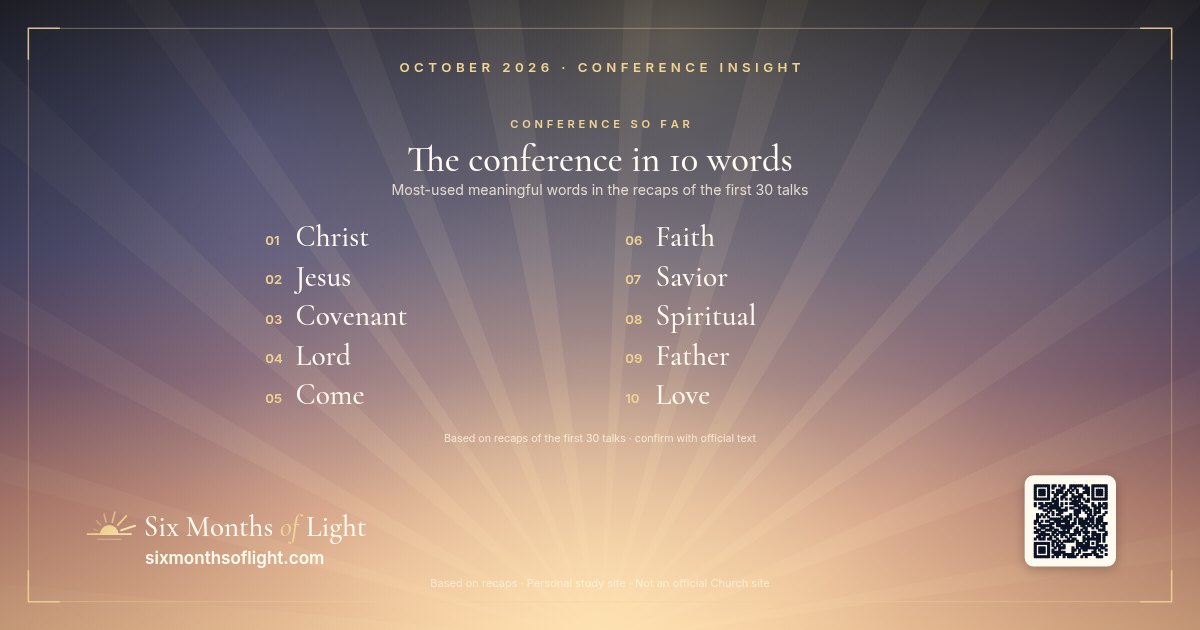
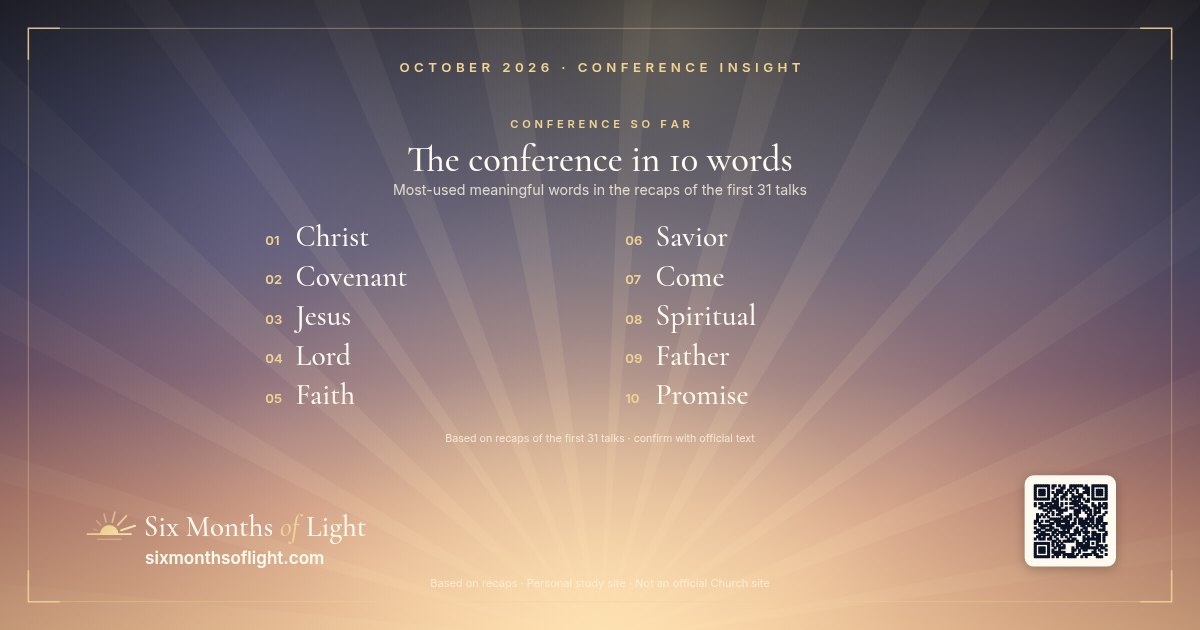
Add Sunday afternoon: Elder David A. Bednar "Sealed by the Holy Spirit of Promise"
From Church News recap; session remains pending for more talks.

diff --git a/assets/data.js b/assets/data.js
@@ -778,6 +778,30 @@ window.CONF = {
    "big_idea": "Live the law of tithing and the Lord opens the windows of heaven — blessings both temporal and spiritual.",
    "video_embed": null,
    "full_text_permitted": false
+  },
+  {
+   "id": "sun-pm-4-bednar",
+   "session": "sun-pm",
+   "order": 4,
+   "speaker": "Elder David A. Bednar",
+   "calling": "Quorum of the Twelve Apostles",
+   "title": "Sealed by the Holy Spirit of Promise",
+   "recap_url": "https://www.thechurchnews.com/general-conference/2026/10/04/elder-david-bednar-october-2026-general-conference-sealed-holy-spirit-promise/",
+   "official_url": null,
+   "summary": "Speaking about ordinances and covenants, with a focus on the sealing ordinance. A covenant is a solemn promise and enduring commitment between God and His children, received through sacred ordinances — holy acts performed by priesthood authority with spiritual purpose and eternal significance. Understanding ordinances helps us understand our covenants. Covenants and ordinances are spiritual credentials, and faithfulness keeps them valid to receive the promised blessings. The Holy Ghost is the Holy Spirit of Promise, who ratifies righteous acts as acceptable to God; during mortality that seal is conditional and can be forfeited through unrighteousness. The temple sealing of a man and a woman is a crowning covenant and ordinance; a spouse who violates covenants and does not repent loses the ratifying seal, while a faithful spouse who honors covenants and presses forward in faith remains worthy to receive the promised blessings.",
+   "scriptures": [
+    "The Holy Ghost as the “Holy Spirit of Promise” (no verse cited in recaps)"
+   ],
+   "quotes": [
+    "For disciples of Jesus Christ, receiving priesthood ordinances and entering into sacred covenants are essential steps in the quest of a lifetime to align our hearts, minds and lives with God’s will.",
+    "The covenants and ordinances of the Savior’s restored gospel are spiritual credentials that can open wide the heavenly windows of opportunity to receive in our lives divine purpose, direction and strength.",
+    "Ultimately, all gospel ordinances and covenants must be sealed by the Holy Spirit of Promise."
+   ],
+   "invitation": "Honor your covenants and press forward in faith so your ordinances can be sealed by the Holy Spirit of Promise.",
+   "ponder": "Am I keeping my covenant “credentials” valid — and what would help me honor my temple covenants more faithfully?",
+   "big_idea": "Ordinances and covenants are spiritual credentials — kept faithfully, they are sealed by the Holy Spirit of Promise.",
+   "video_embed": null,
+   "full_text_permitted": false
   }
  ],
  "challenge": {

diff --git a/q/sun-pm-4-bednar-2.html b/q/sun-pm-4-bednar-2.html
@@ -1,0 +1,14 @@
+<!doctype html>
+<html lang="en"><head><meta charset="utf-8"><meta name="viewport" content="width=device-width,initial-scale=1">
+<title>“The covenants and ordinances of the Savior’s restored gospel are spiritual credentials that can open…” — Elder David A. Bednar · Six Months of Light</title>
+<meta name="description" content="From “Sealed by the Holy Spirit of Promise” (October 2026 General Conference, as quoted in recaps). Read the recap and make your own quote card.">
+<meta property="og:type" content="article"><meta property="og:site_name" content="Six Months of Light">
+<meta property="og:title" content="“The covenants and ordinances of the Savior’s restored gospel are spiritual credentials that can open…” — Elder David A. Bednar"><meta property="og:description" content="From “Sealed by the Holy Spirit of Promise” (October 2026 General Conference, as quoted in recaps). Read the recap and make your own quote card.">
+<meta property="og:url" content="https://sixmonthsoflight.com/q/sun-pm-4-bednar-2.html"><meta property="og:image" content="https://sixmonthsoflight.com/assets/og/q/sun-pm-4-bednar-2.jpg">
+<meta property="og:image:width" content="1200"><meta property="og:image:height" content="630"><meta property="og:image:alt" content="Quote card: The covenants and ordinances of the Savior’s restored gospel are spiritual credentials that can open… — Elder David A. Bednar">
+<meta name="twitter:card" content="summary_large_image"><meta name="twitter:title" content="“The covenants and ordinances of the Savior’s restored gospel are spiritual credentials that can open…” — Elder David A. Bednar"><meta name="twitter:description" content="From “Sealed by the Holy Spirit of Promise” (October 2026 General Conference, as quoted in recaps). Read the recap and make your own quote card."><meta name="twitter:image" content="https://sixmonthsoflight.com/assets/og/q/sun-pm-4-bednar-2.jpg">
+<meta name="robots" content="noindex,follow"><link rel="icon" href="../assets/logo-mark.svg" type="image/svg+xml">
+<meta http-equiv="refresh" content="0; url=../talks/sun-pm-4-bednar.html#q2">
+<style>body{font:16px/1.5 system-ui,sans-serif;background:#0d1326;color:#fffaf0;display:grid;place-items:center;min-height:100vh;margin:0;padding:24px;text-align:center}a{color:#f1d394}</style>
+</head><body><main><p>Opening the quote from Elder David A. Bednar…</p><p><a href="../talks/sun-pm-4-bednar.html#q2">Continue to Six Months of Light →</a></p><p style="font-size:13px;opacity:.75">Not an official Church site · Personal study page</p></main>
+<script>location.replace("../talks/sun-pm-4-bednar.html#q2");</script></body></html>

diff --git a/q/sun-pm-4-bednar-1.html b/q/sun-pm-4-bednar-1.html
@@ -1,0 +1,14 @@
+<!doctype html>
+<html lang="en"><head><meta charset="utf-8"><meta name="viewport" content="width=device-width,initial-scale=1">
+<title>“For disciples of Jesus Christ, receiving priesthood ordinances and entering into sacred covenants are…” — Elder David A. Bednar · Six Months of Light</title>
+<meta name="description" content="From “Sealed by the Holy Spirit of Promise” (October 2026 General Conference, as quoted in recaps). Read the recap and make your own quote card.">
+<meta property="og:type" content="article"><meta property="og:site_name" content="Six Months of Light">
+<meta property="og:title" content="“For disciples of Jesus Christ, receiving priesthood ordinances and entering into sacred covenants are…” — Elder David A. Bednar"><meta property="og:description" content="From “Sealed by the Holy Spirit of Promise” (October 2026 General Conference, as quoted in recaps). Read the recap and make your own quote card.">
+<meta property="og:url" content="https://sixmonthsoflight.com/q/sun-pm-4-bednar-1.html"><meta property="og:image" content="https://sixmonthsoflight.com/assets/og/q/sun-pm-4-bednar-1.jpg">
+<meta property="og:image:width" content="1200"><meta property="og:image:height" content="630"><meta property="og:image:alt" content="Quote card: For disciples of Jesus Christ, receiving priesthood ordinances and entering into sacred covenants are… — Elder David A. Bednar">
+<meta name="twitter:card" content="summary_large_image"><meta name="twitter:title" content="“For disciples of Jesus Christ, receiving priesthood ordinances and entering into sacred covenants are…” — Elder David A. Bednar"><meta name="twitter:description" content="From “Sealed by the Holy Spirit of Promise” (October 2026 General Conference, as quoted in recaps). Read the recap and make your own quote card."><meta name="twitter:image" content="https://sixmonthsoflight.com/assets/og/q/sun-pm-4-bednar-1.jpg">
+<meta name="robots" content="noindex,follow"><link rel="icon" href="../assets/logo-mark.svg" type="image/svg+xml">
+<meta http-equiv="refresh" content="0; url=../talks/sun-pm-4-bednar.html#q1">
+<style>body{font:16px/1.5 system-ui,sans-serif;background:#0d1326;color:#fffaf0;display:grid;place-items:center;min-height:100vh;margin:0;padding:24px;text-align:center}a{color:#f1d394}</style>
+</head><body><main><p>Opening the quote from Elder David A. Bednar…</p><p><a href="../talks/sun-pm-4-bednar.html#q1">Continue to Six Months of Light →</a></p><p style="font-size:13px;opacity:.75">Not an official Church site · Personal study page</p></main>
+<script>location.replace("../talks/sun-pm-4-bednar.html#q1");</script></body></html>

diff --git a/q/sun-pm-4-bednar-3.html b/q/sun-pm-4-bednar-3.html
@@ -1,0 +1,14 @@
+<!doctype html>
+<html lang="en"><head><meta charset="utf-8"><meta name="viewport" content="width=device-width,initial-scale=1">
+<title>“Ultimately, all gospel ordinances and covenants must be sealed by the Holy Spirit of Promise.” — Elder David A. Bednar · Six Months of Light</title>
+<meta name="description" content="From “Sealed by the Holy Spirit of Promise” (October 2026 General Conference, as quoted in recaps). Read the recap and make your own quote card.">
+<meta property="og:type" content="article"><meta property="og:site_name" content="Six Months of Light">
+<meta property="og:title" content="“Ultimately, all gospel ordinances and covenants must be sealed by the Holy Spirit of Promise.” — Elder David A. Bednar"><meta property="og:description" content="From “Sealed by the Holy Spirit of Promise” (October 2026 General Conference, as quoted in recaps). Read the recap and make your own quote card.">
+<meta property="og:url" content="https://sixmonthsoflight.com/q/sun-pm-4-bednar-3.html"><meta property="og:image" content="https://sixmonthsoflight.com/assets/og/q/sun-pm-4-bednar-3.jpg">
+<meta property="og:image:width" content="1200"><meta property="og:image:height" content="630"><meta property="og:image:alt" content="Quote card: Ultimately, all gospel ordinances and covenants must be sealed by the Holy Spirit of Promise. — Elder David A. Bednar">
+<meta name="twitter:card" content="summary_large_image"><meta name="twitter:title" content="“Ultimately, all gospel ordinances and covenants must be sealed by the Holy Spirit of Promise.” — Elder David A. Bednar"><meta name="twitter:description" content="From “Sealed by the Holy Spirit of Promise” (October 2026 General Conference, as quoted in recaps). Read the recap and make your own quote card."><meta name="twitter:image" content="https://sixmonthsoflight.com/assets/og/q/sun-pm-4-bednar-3.jpg">
+<meta name="robots" content="noindex,follow"><link rel="icon" href="../assets/logo-mark.svg" type="image/svg+xml">
+<meta http-equiv="refresh" content="0; url=../talks/sun-pm-4-bednar.html#q3">
+<style>body{font:16px/1.5 system-ui,sans-serif;background:#0d1326;color:#fffaf0;display:grid;place-items:center;min-height:100vh;margin:0;padding:24px;text-align:center}a{color:#f1d394}</style>
+</head><body><main><p>Opening the quote from Elder David A. Bednar…</p><p><a href="../talks/sun-pm-4-bednar.html#q3">Continue to Six Months of Light →</a></p><p style="font-size:13px;opacity:.75">Not an official Church site · Personal study page</p></main>
+<script>location.replace("../talks/sun-pm-4-bednar.html#q3");</script></body></html>

diff --git a/i/christ.html b/i/christ.html
@@ -1,12 +1,12 @@
 <!doctype html>
 <html lang="en"><head><meta charset="utf-8"><meta name="viewport" content="width=device-width,initial-scale=1">
 <title>He was named again and again · October 2026 General Conference · Six Months of Light</title>
-<meta name="description" content="Jesus Christ was named 141 times in recaps of 24 of 30 talks. Based on recaps.">
+<meta name="description" content="Jesus Christ was named 144 times in recaps of 25 of 31 talks. Based on recaps.">
 <meta property="og:type" content="article"><meta property="og:site_name" content="Six Months of Light">
-<meta property="og:title" content="He was named again and again · October 2026 General Conference"><meta property="og:description" content="Jesus Christ was named 141 times in recaps of 24 of 30 talks. Based on recaps.">
+<meta property="og:title" content="He was named again and again · October 2026 General Conference"><meta property="og:description" content="Jesus Christ was named 144 times in recaps of 25 of 31 talks. Based on recaps.">
 <meta property="og:url" content="https://sixmonthsoflight.com/i/christ.html"><meta property="og:image" content="https://sixmonthsoflight.com/assets/og/i/christ.jpg">
 <meta property="og:image:width" content="1200"><meta property="og:image:height" content="630"><meta property="og:image:alt" content="He was named again and again">
-<meta name="twitter:card" content="summary_large_image"><meta name="twitter:title" content="He was named again and again · October 2026 General Conference"><meta name="twitter:description" content="Jesus Christ was named 141 times in recaps of 24 of 30 talks. Based on recaps."><meta name="twitter:image" content="https://sixmonthsoflight.com/assets/og/i/christ.jpg">
+<meta name="twitter:card" content="summary_large_image"><meta name="twitter:title" content="He was named again and again · October 2026 General Conference"><meta name="twitter:description" content="Jesus Christ was named 144 times in recaps of 25 of 31 talks. Based on recaps."><meta name="twitter:image" content="https://sixmonthsoflight.com/assets/og/i/christ.jpg">
 <meta name="robots" content="noindex,follow"><link rel="icon" href="../assets/logo-mark.svg" type="image/svg+xml">
 <meta http-equiv="refresh" content="0; url=../insights.html#christ">
 <style>body{font:16px/1.5 system-ui,sans-serif;background:#0d1326;color:#fffaf0;display:grid;place-items:center;min-height:100vh;margin:0;padding:24px;text-align:center}a{color:#f1d394}</style>

diff --git a/i/scriptures.html b/i/scriptures.html
@@ -1,12 +1,12 @@
 <!doctype html>
 <html lang="en"><head><meta charset="utf-8"><meta name="viewport" content="width=device-width,initial-scale=1">
 <title>Back to the scriptures · October 2026 General Conference · Six Months of Light</title>
-<meta name="description" content="21 scripture references in recaps of the first 30 talks. Based on recaps.">
+<meta name="description" content="21 scripture references in recaps of the first 31 talks. Based on recaps.">
 <meta property="og:type" content="article"><meta property="og:site_name" content="Six Months of Light">
-<meta property="og:title" content="Back to the scriptures · October 2026 General Conference"><meta property="og:description" content="21 scripture references in recaps of the first 30 talks. Based on recaps.">
+<meta property="og:title" content="Back to the scriptures · October 2026 General Conference"><meta property="og:description" content="21 scripture references in recaps of the first 31 talks. Based on recaps.">
 <meta property="og:url" content="https://sixmonthsoflight.com/i/scriptures.html"><meta property="og:image" content="https://sixmonthsoflight.com/assets/og/i/scriptures.jpg">
 <meta property="og:image:width" content="1200"><meta property="og:image:height" content="630"><meta property="og:image:alt" content="Back to the scriptures">
-<meta name="twitter:card" content="summary_large_image"><meta name="twitter:title" content="Back to the scriptures · October 2026 General Conference"><meta name="twitter:description" content="21 scripture references in recaps of the first 30 talks. Based on recaps."><meta name="twitter:image" content="https://sixmonthsoflight.com/assets/og/i/scriptures.jpg">
+<meta name="twitter:card" content="summary_large_image"><meta name="twitter:title" content="Back to the scriptures · October 2026 General Conference"><meta name="twitter:description" content="21 scripture references in recaps of the first 31 talks. Based on recaps."><meta name="twitter:image" content="https://sixmonthsoflight.com/assets/og/i/scriptures.jpg">
 <meta name="robots" content="noindex,follow"><link rel="icon" href="../assets/logo-mark.svg" type="image/svg+xml">
 <meta http-equiv="refresh" content="0; url=../insights.html#scriptures">
 <style>body{font:16px/1.5 system-ui,sans-serif;background:#0d1326;color:#fffaf0;display:grid;place-items:center;min-height:100vh;margin:0;padding:24px;text-align:center}a{color:#f1d394}</style>

diff --git a/i/who-spoke.html b/i/who-spoke.html
@@ -1,12 +1,12 @@
 <!doctype html>
 <html lang="en"><head><meta charset="utf-8"><meta name="viewport" content="width=device-width,initial-scale=1">
-<title>30 talks so far · October 2026 General Conference · Six Months of Light</title>
+<title>31 talks so far · October 2026 General Conference · Six Months of Light</title>
 <meta name="description" content="Who spoke at General Conference so far. Based on recaps.">
 <meta property="og:type" content="article"><meta property="og:site_name" content="Six Months of Light">
-<meta property="og:title" content="30 talks so far · October 2026 General Conference"><meta property="og:description" content="Who spoke at General Conference so far. Based on recaps.">
+<meta property="og:title" content="31 talks so far · October 2026 General Conference"><meta property="og:description" content="Who spoke at General Conference so far. Based on recaps.">
 <meta property="og:url" content="https://sixmonthsoflight.com/i/who-spoke.html"><meta property="og:image" content="https://sixmonthsoflight.com/assets/og/i/who-spoke.jpg">
-<meta property="og:image:width" content="1200"><meta property="og:image:height" content="630"><meta property="og:image:alt" content="30 talks so far">
-<meta name="twitter:card" content="summary_large_image"><meta name="twitter:title" content="30 talks so far · October 2026 General Conference"><meta name="twitter:description" content="Who spoke at General Conference so far. Based on recaps."><meta name="twitter:image" content="https://sixmonthsoflight.com/assets/og/i/who-spoke.jpg">
+<meta property="og:image:width" content="1200"><meta property="og:image:height" content="630"><meta property="og:image:alt" content="31 talks so far">
+<meta name="twitter:card" content="summary_large_image"><meta name="twitter:title" content="31 talks so far · October 2026 General Conference"><meta name="twitter:description" content="Who spoke at General Conference so far. Based on recaps."><meta name="twitter:image" content="https://sixmonthsoflight.com/assets/og/i/who-spoke.jpg">
 <meta name="robots" content="noindex,follow"><link rel="icon" href="../assets/logo-mark.svg" type="image/svg+xml">
 <meta http-equiv="refresh" content="0; url=../insights.html#who-spoke">
 <style>body{font:16px/1.5 system-ui,sans-serif;background:#0d1326;color:#fffaf0;display:grid;place-items:center;min-height:100vh;margin:0;padding:24px;text-align:center}a{color:#f1d394}</style>

diff --git a/talks/sun-pm-4-bednar.html b/talks/sun-pm-4-bednar.html
@@ -1,0 +1,34 @@
+<!doctype html>
+<html lang="en">
+<head>
+<meta charset="utf-8">
+<base href="../">
+<meta name="viewport" content="width=device-width,initial-scale=1">
+<title>Sealed by the Holy Spirit of Promise — Elder David A. Bednar · Six Months of Light</title>
+<meta name="description" content="Ordinances and covenants are spiritual credentials — kept faithfully, they are sealed by the Holy Spirit of Promise. Six Months of Light: summary, scriptures, quote cards &amp; ponder questions. Not an official Church site.">
+<link rel="canonical" href="https://sixmonthsoflight.com/talks/sun-pm-4-bednar.html">
+<meta property="og:type" content="article">
+<meta property="og:site_name" content="Six Months of Light">
+<meta property="og:title" content="Sealed by the Holy Spirit of Promise — Elder David A. Bednar">
+<meta property="og:description" content="Ordinances and covenants are spiritual credentials — kept faithfully, they are sealed by the Holy Spirit of Promise. Six Months of Light: summary, scriptures, quote cards &amp; ponder questions. Not an official Church site.">
+<meta property="og:url" content="https://sixmonthsoflight.com/talks/sun-pm-4-bednar.html">
+<meta property="og:image" content="https://sixmonthsoflight.com/assets/og/sun-pm-4-bednar.jpg">
+<meta property="og:image:width" content="1200"><meta property="og:image:height" content="630">
+<meta property="og:image:alt" content="Sealed by the Holy Spirit of Promise by Elder David A. Bednar">
+<meta name="twitter:card" content="summary_large_image">
+<meta name="theme-color" content="#0d1326">
+<link rel="icon" href="assets/logo-mark.svg" type="image/svg+xml">
+<link rel="preload" href="assets/fonts/CormorantGaramond.woff2" as="font" type="font/woff2" crossorigin>
+<link rel="stylesheet" href="assets/styles.css">
+</head>
+<body>
+<main class="wrap" id="main"></main>
+<script>window.TALK_ID = "sun-pm-4-bednar";</script>
+<script src="assets/config.js"></script>
+<script src="assets/api.js"></script>
+<script src="assets/data.js"></script>
+<script src="assets/common.js"></script>
+<script src="assets/pages/share.js"></script>
+<script src="assets/pages/talk.js"></script>
+</body>
+</html>

diff --git a/tools/talks_source.py b/tools/talks_source.py
@@ -299,6 +299,15 @@ talks = [
     "I bear my testimony that God is our loving Heavenly Father. He knows each of us and is aware of our needs even before we ask."],
    "Trust the Lord's promises and live the law of tithing faithfully, then watch for the temporal and spiritual blessings He pours out.",
    "What blessings — temporal or spiritual — have come into my life through paying tithing, and have I recognized them?"),
+ t("sun-pm-4-bednar", "sun-pm", 4, "Elder David A. Bednar", "Quorum of the Twelve Apostles", "Sealed by the Holy Spirit of Promise",
+   "https://www.thechurchnews.com/general-conference/2026/10/04/elder-david-bednar-october-2026-general-conference-sealed-holy-spirit-promise/",
+   "Speaking about ordinances and covenants, with a focus on the sealing ordinance. A covenant is a solemn promise and enduring commitment between God and His children, received through sacred ordinances — holy acts performed by priesthood authority with spiritual purpose and eternal significance. Understanding ordinances helps us understand our covenants. Covenants and ordinances are spiritual credentials, and faithfulness keeps them valid to receive the promised blessings. The Holy Ghost is the Holy Spirit of Promise, who ratifies righteous acts as acceptable to God; during mortality that seal is conditional and can be forfeited through unrighteousness. The temple sealing of a man and a woman is a crowning covenant and ordinance; a spouse who violates covenants and does not repent loses the ratifying seal, while a faithful spouse who honors covenants and presses forward in faith remains worthy to receive the promised blessings.",
+   ["The Holy Ghost as the “Holy Spirit of Promise” (no verse cited in recaps)"],
+   ["For disciples of Jesus Christ, receiving priesthood ordinances and entering into sacred covenants are essential steps in the quest of a lifetime to align our hearts, minds and lives with God’s will.",
+    "The covenants and ordinances of the Savior’s restored gospel are spiritual credentials that can open wide the heavenly windows of opportunity to receive in our lives divine purpose, direction and strength.",
+    "Ultimately, all gospel ordinances and covenants must be sealed by the Holy Spirit of Promise."],
+   "Honor your covenants and press forward in faith so your ordinances can be sealed by the Holy Spirit of Promise.",
+   "Am I keeping my covenant “credentials” valid — and what would help me honor my temple covenants more faithfully?"),
 ]
 
 # 60-second recap "big idea" — a one-line condensation of the doc's summary (NOT a quote).
@@ -333,6 +342,7 @@ BIG_IDEAS = {
  "sun-pm-1-uchtdorf": "Jesus Christ unites His covenant people — the closer we come to Him, the closer we come to each other.",
  "sun-pm-2-spannaus": "Heavenly Father knows you and is at your side — put Him first, and He will guide your righteous desires.",
  "sun-pm-3-villanueva": "Live the law of tithing and the Lord opens the windows of heaven — blessings both temporal and spiritual.",
+ "sun-pm-4-bednar": "Ordinances and covenants are spiritual credentials — kept faithfully, they are sealed by the Holy Spirit of Promise.",
 }
 for _t in talks:
     _t["big_idea"] = BIG_IDEAS[_t["id"]]
